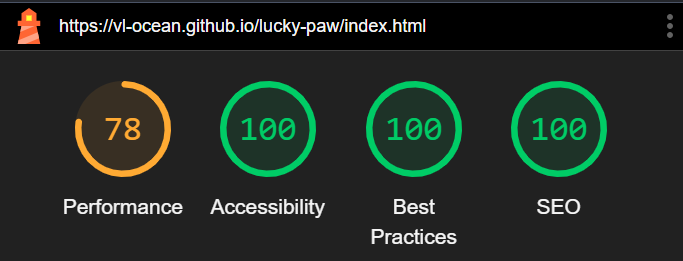
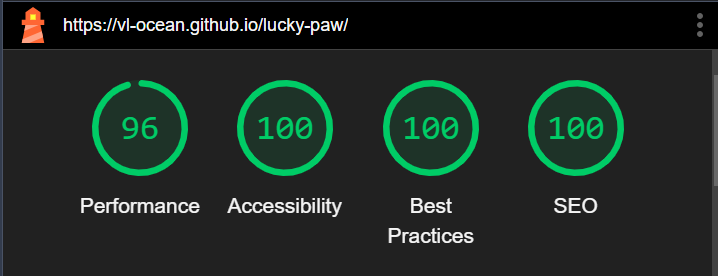
Update Readme, add tables to testing section

diff --git a/index.html b/index.html
@@ -47,7 +47,7 @@
             </section>
             <section class="right">
                 <div class="text">
-                    <h2>Volunteeering</h2>
+                    <h2>Volunteering</h2>
                     <p>We couldn't do it without the help of our amazing community! If you're passionate about making a difference in the lives of animals, we invite you to join us as a volunteer. Whether you're able to help with daily tasks like cleaning and feeding, or assist with special projects like fundraising or event planning, we welcome your energy and enthusiasm.</p>
                 </div>
                 <div class="picture">

diff --git a/README.md b/README.md
@@ -2,6 +2,9 @@
 
 This project is a sample of a website for "Lucky Paw" animal shelter. Its goal is to help people find a pet to adopt. Users can find out about the pets online, schedule a visit and get information about the address and opening hours of the shelter. 
 
+Click here to visit [`Lucky Paw`](https://vl-ocean.github.io/lucky-paw/index.html) website 
+
+
 ![Responsice Mockup](./README-images/responsive.png)
 
 
@@ -38,6 +41,8 @@ This project is a sample of a website for "Lucky Paw" animal shelter. Its goal i
 Git was used for version control by utilizing the Gitpod terminal to commit to Git and Push to GitHub.
   - #### [GitHub](https://github.com/)
 GitHub is used to store the projects code after being pushed from Git.
+  - #### [GitPod](https://www.gitpod.io/)
+Gitpod was used as a platform to develop code in ready-to-code developer environment.
  - #### [Balsamic](https://balsamiq.com/)
 Balsamiq was used to create the wireframes during the design process
 
@@ -105,24 +110,32 @@ The website has four pages. Each page has a heading with logo and navigation bar
 ## Testing 
 
 ### Responsiveness
-The website was developed from mobile (320px) to desktop (2000px) and was adapted to fit almost all screens. The breakpoints are:
-- 320px;
-- 576px;
-- 768px;
-- 992px;
-- 1024px;
-- 1600px;
-- 2000px.
+The website was developed from mobile (320px) to desktop (2000px) and was adapted to fit almost all screens. 
+
+Screen resolution | Pass
+--- | :---:
+320px | &check;
+576px | &check;
+768px | &check;
+992px | &check;
+1024px | &check;
+1600px | &check;
+2000px | &check;
+
 
 ![Responsice Mockup](./README-images/responsive2.png)
 
 ### Supported browsers
 The website was tested on the following browsers and is working well:
-- Opera
-- Firefox
-- Chrome
-- Microsoft Edge
-- Savannah
+
+Browser | Pass
+--- | :---:
+Chrome | &check;
+Opera | &check;
+Firefox | &check;
+Microsoft Edge | &check;
+Savannah | &check;
+
 
 ### Validator Testing 
 - #### HTML
@@ -136,11 +149,16 @@ The website was tested on the following browsers and is working well:
     - [CSS validation](./README-images/css_validation.png)
 
 ### Accessibility and perfomance
-  - Using Google Lighthouse I confirmed that the website is readable and accessible. It performs mostly well.
+  - Using Google Lighthouse I confirmed that the website is readable and accessible. It performs well.
     - [Home page](./README-images/home_page_lighthouse.png)
     - [Gallery page](./README-images/gallery_page_lighthouse.png)
     - [Contact page](./README-images/contact_page_lighthouse.png)
     - [Confirmation page](./README-images/confirmation_page_lighthouse.png)
+
+
+### Fixed Bugs
+
+- Due to images' size Home page and Gallery page were dropping in Perfomance. To avoid it, all images were restocked in a smaller size and converted to Webp format. They were also optimized. As the result, the pages load much faster.
 
 ### Unfixed Bugs
 - The form cannot be validated to specify the input characters. Currently you can use digits as your name and surname. The day of the week cannot be validated too, the users can choose Sunday, even tho the shelter is closed at this time. The time input allows to choose 9am for Saturday and 8pm for weekdays, which is also incorrect. This can be fixed using JavaScript.
@@ -188,10 +206,14 @@ The website was tested on the following browsers and is working well:
     - [ColorSpace](https://mycolor.space/)
     - [Adobe Color Contrast Checker](https://color.adobe.com/create/color-contrast-analyzer)
     - [Tinify image optimizer](https://tinypng.com/)
+    - [Convertio](https://convertio.co/)
+    - [Cloudconvert](https://cloudconvert.com/)
+    - [Pixelied](https://pixelied.com/convert/jpg-converter)
     - [Font Awesome](https://fontawesome.com/) 
     - [Name that color](https://chir.ag/projects/name-that-color/#6195ED)
     - [hex to rgba](https://rgbacolorpicker.com/hex-to-rgba)
     - [Google fonts](https://fonts.google.com/knowledge)
+    - [Fontjoy](https://fontjoy.com/)
 
   - ### Photos & Logo
     - [Pexels](https://www.pexels.com/) 
